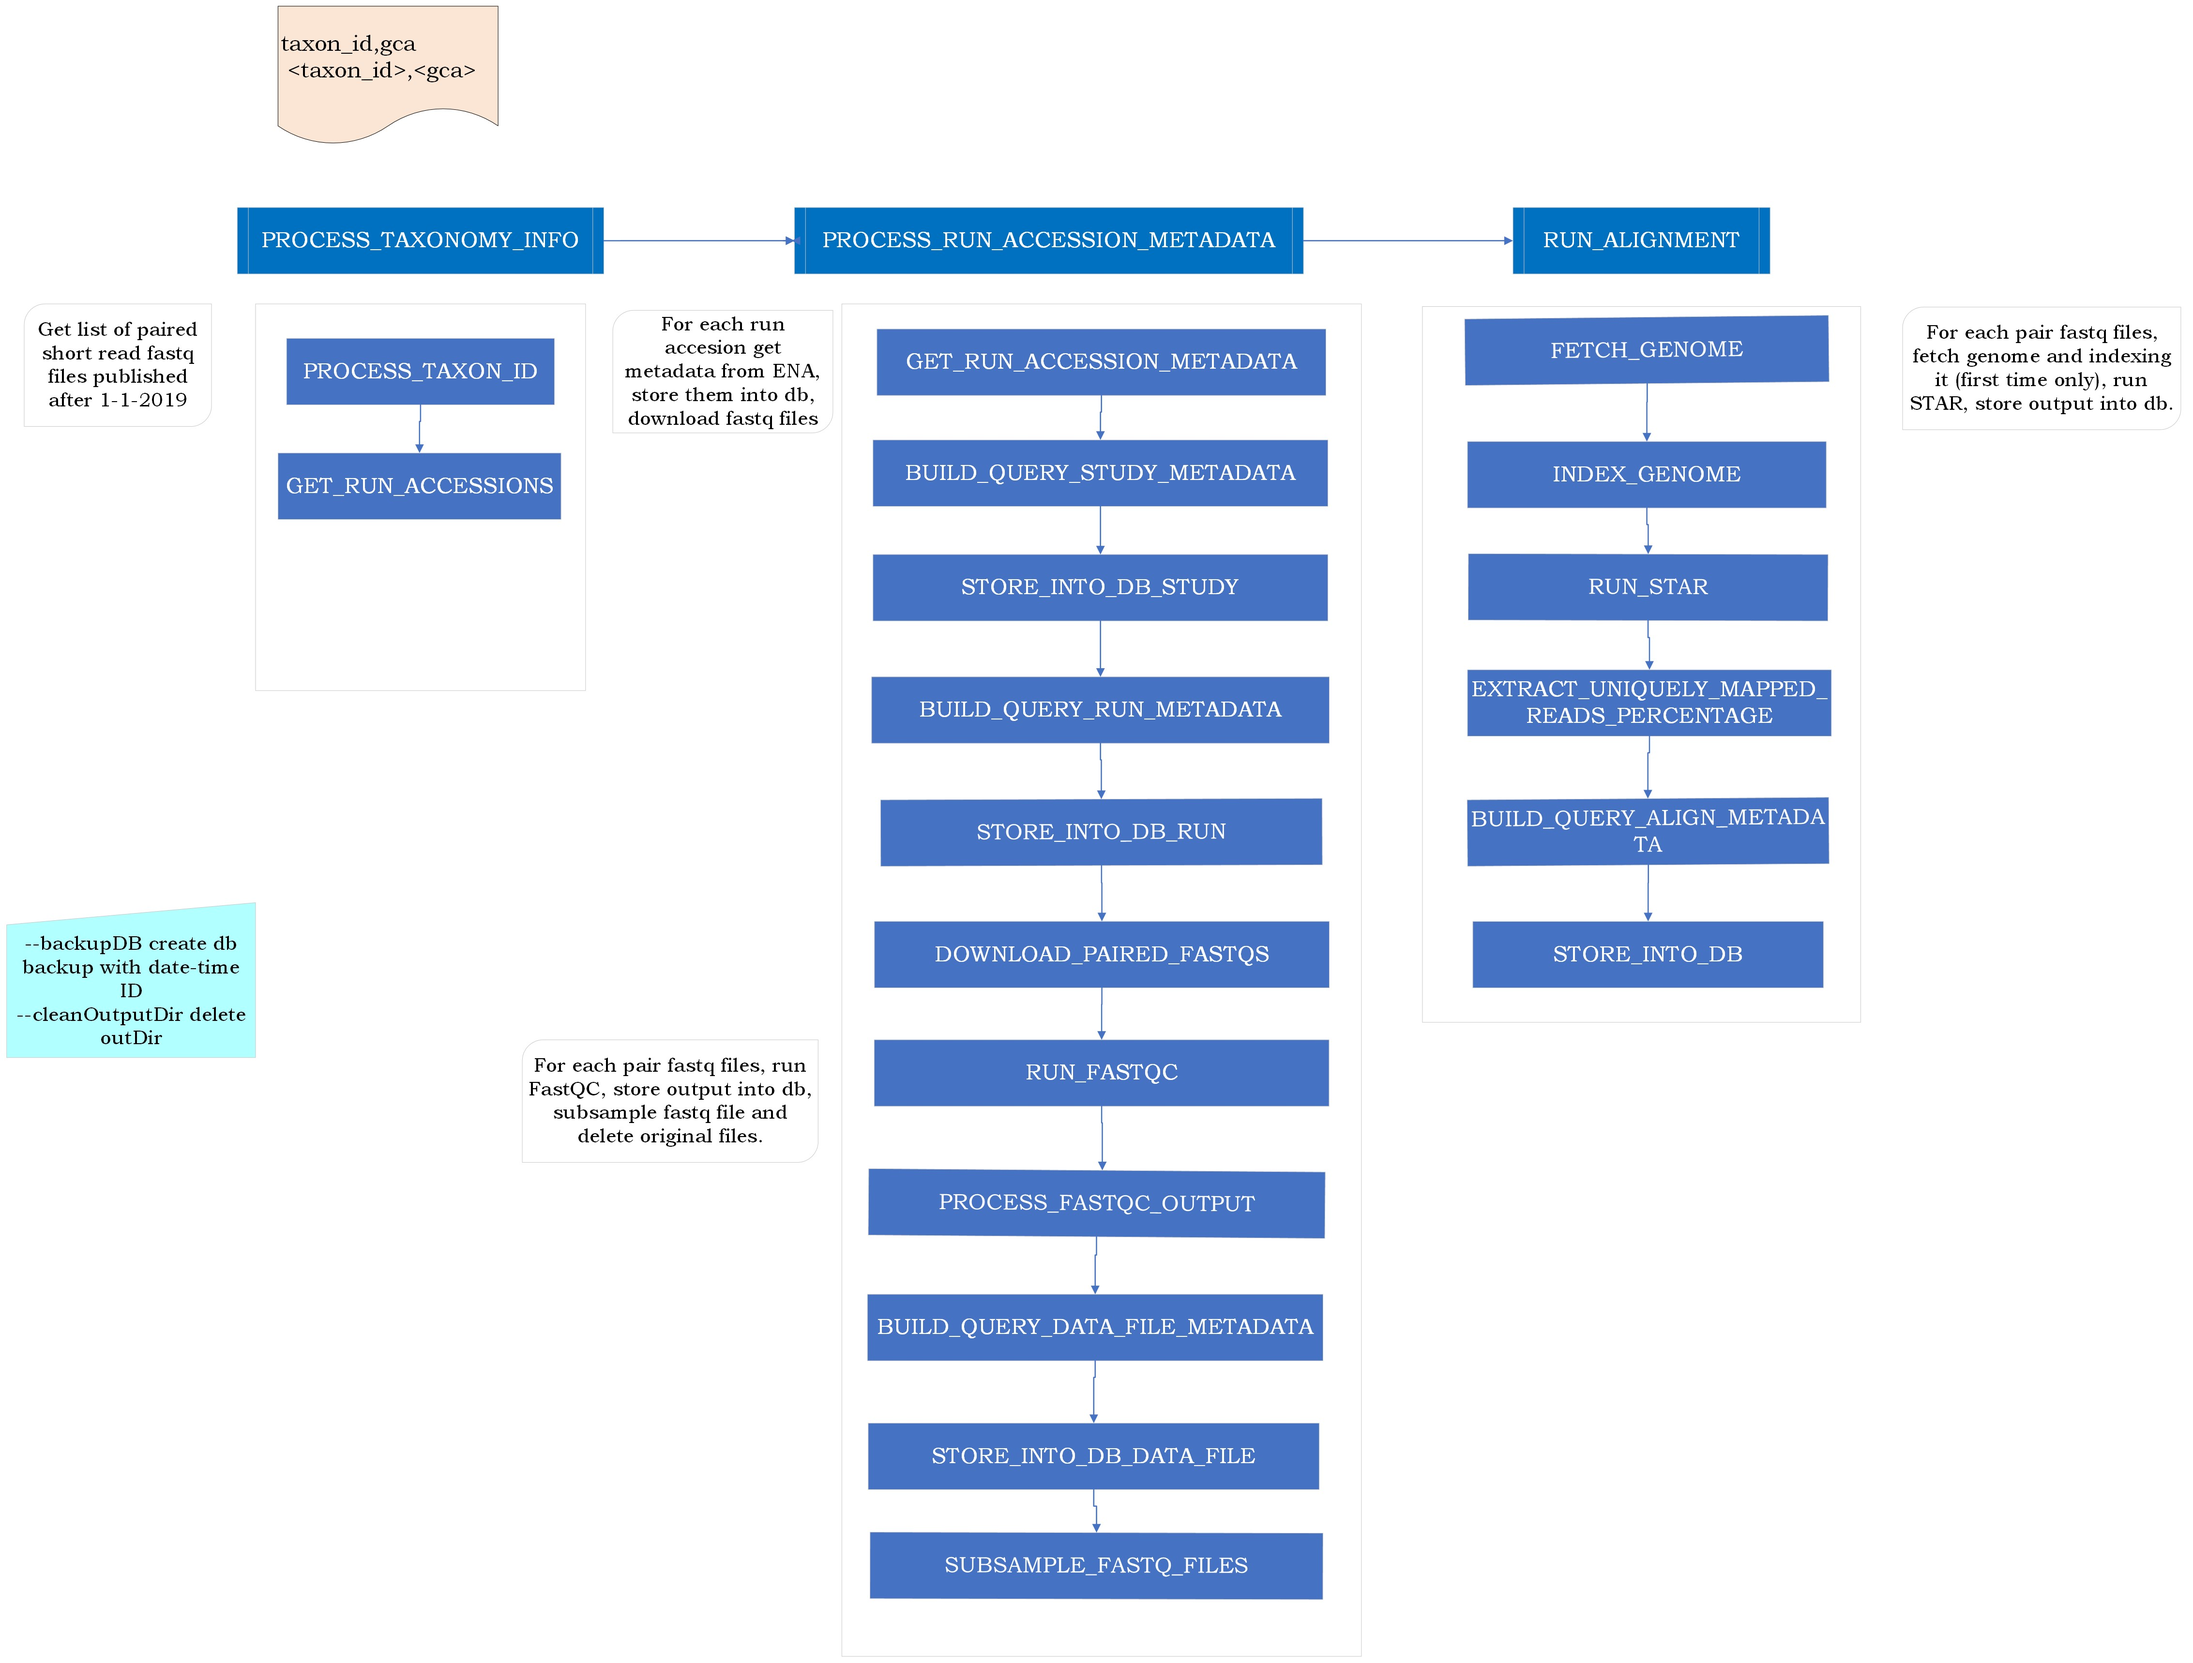
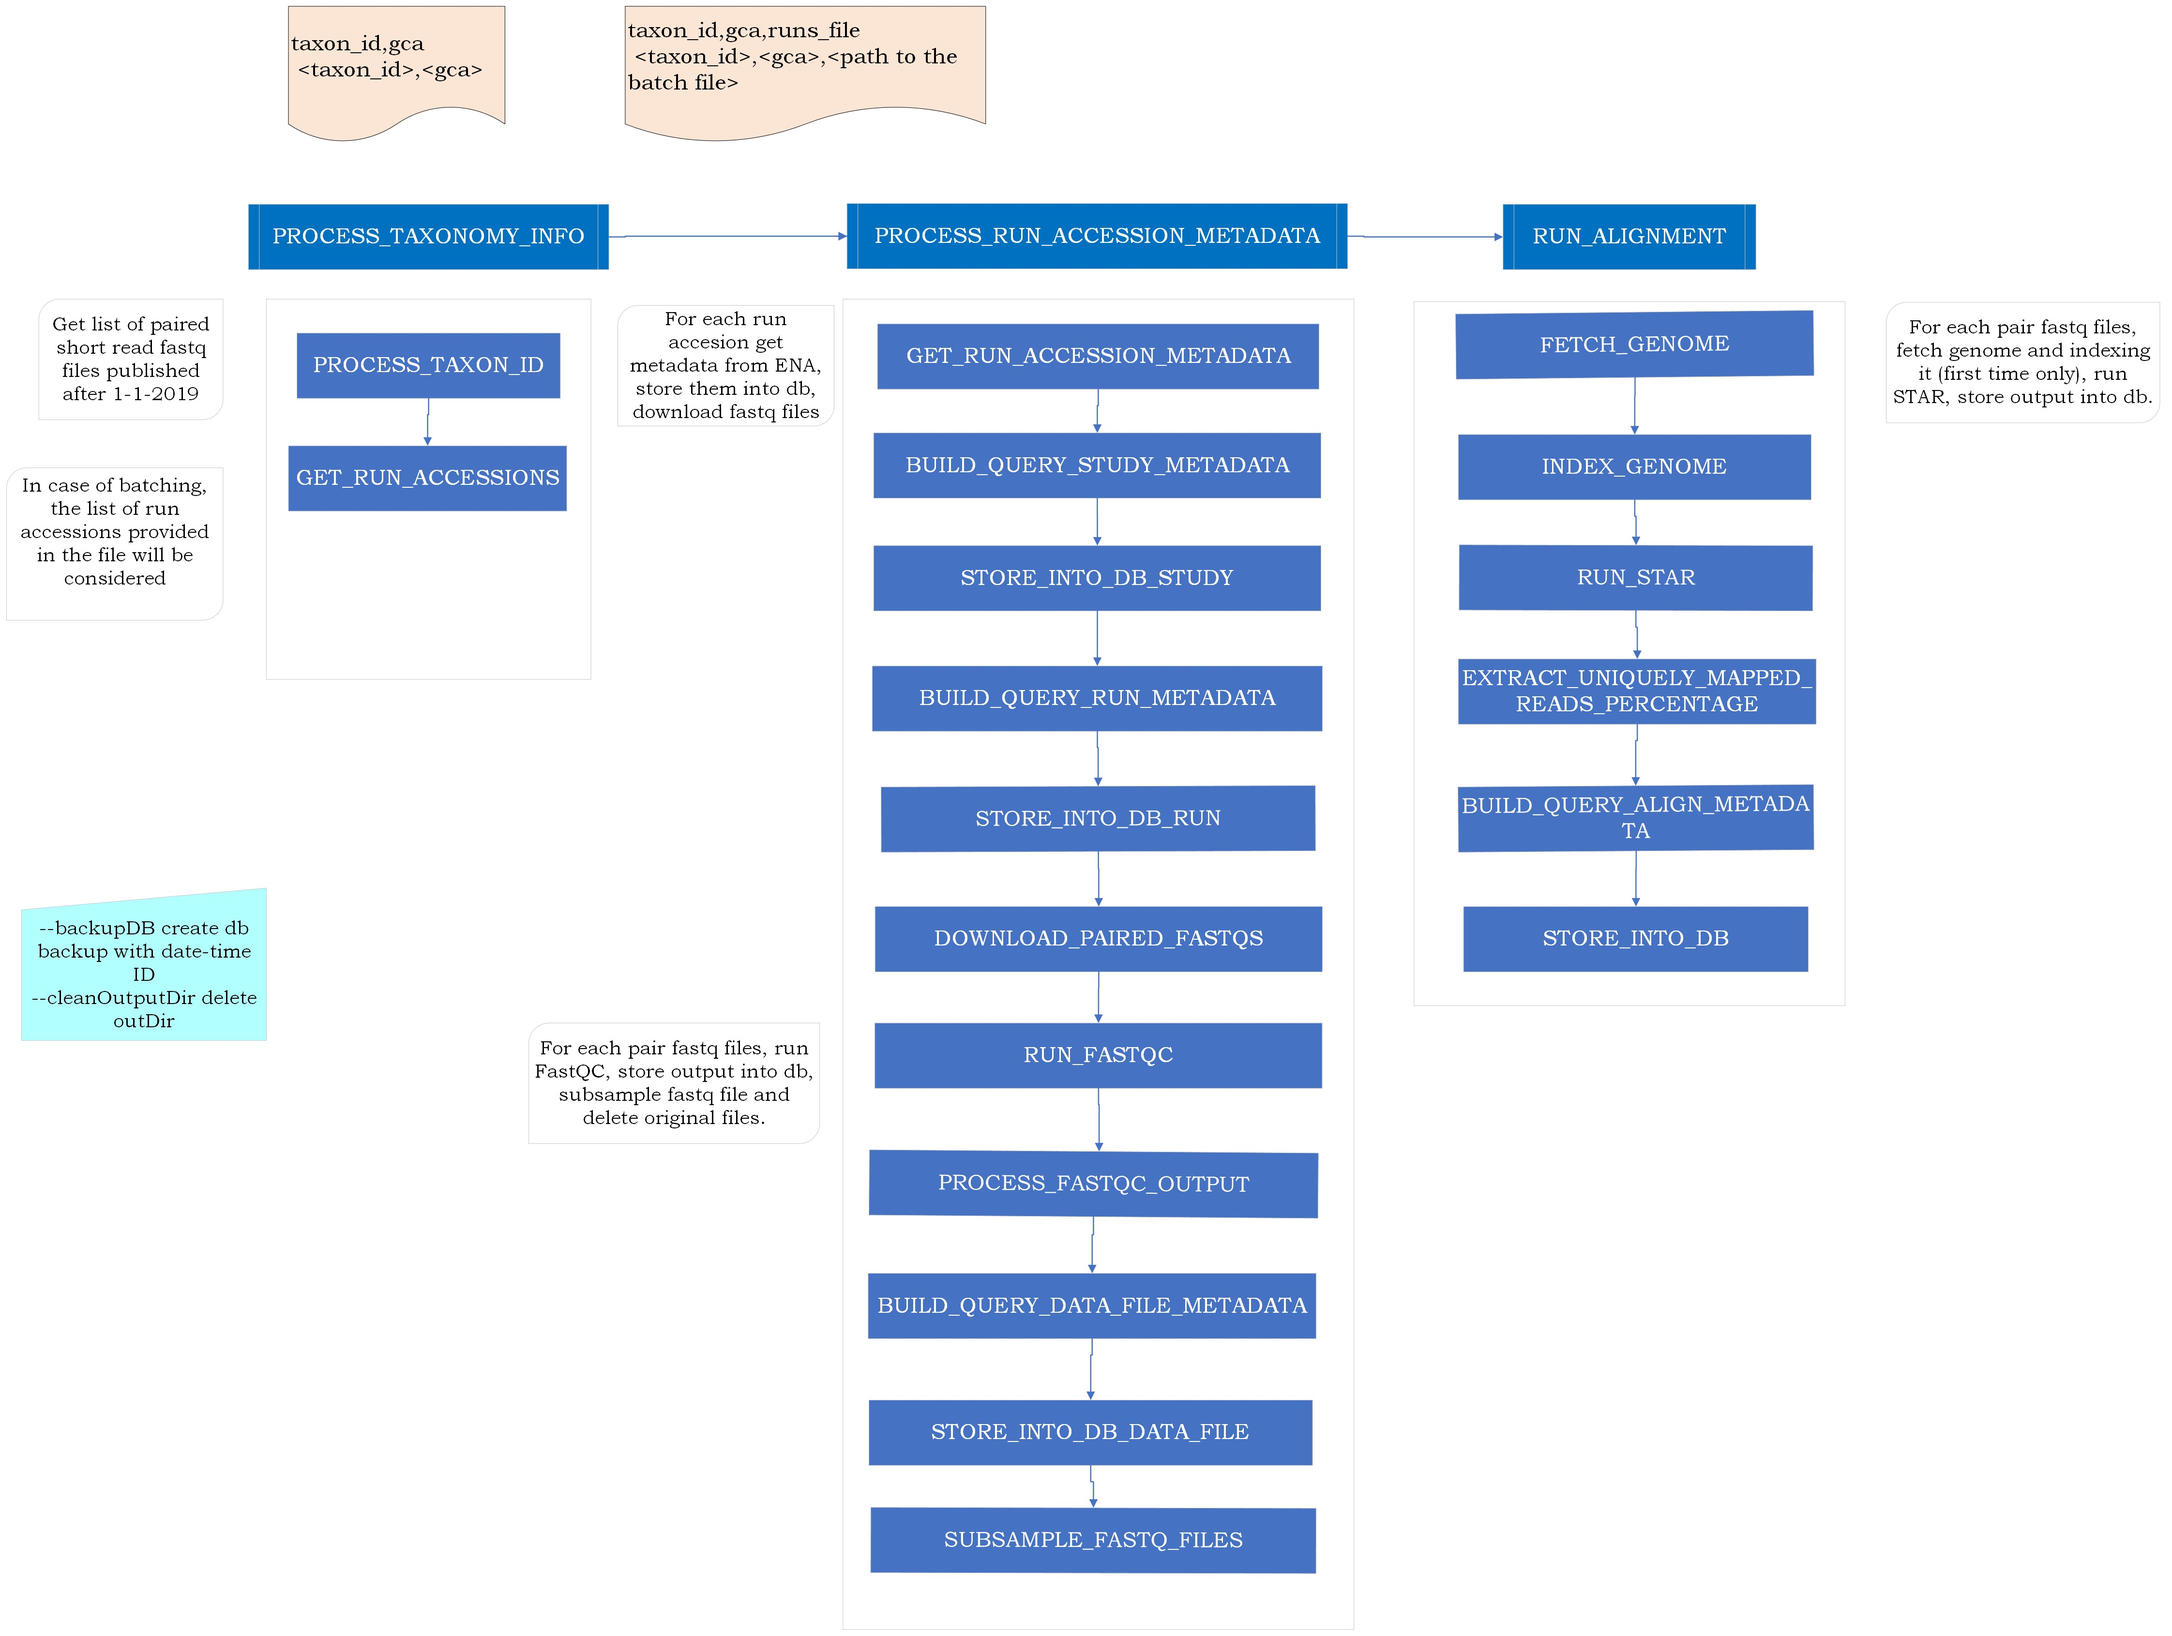
doc update

diff --git a/README.md b/README.md
@@ -14,7 +14,10 @@ This pipeline processes transcriptomic data for various taxon IDs, performing a 
 
 4. **Run STAR Alignment**: Align the subsampled FASTQ files to the provided genome assembly using the STAR aligner, then store the results into the database.
 
+## Batching
 
+The batching option is available to process species with a huge amount of rnaseq data. The batches can be created via src/python/ensembl/genes/metadata/transcriptomic/check_for_transcriptomic_batch.py : give a taxon id and the batch size the script retrieves the list of run accession and split them in multiple txt files according to the batch size. 
+The pipeline considers the date of the last processed date as last cheked date for future updates.
 
 ### Mandatory arguments
 
@@ -24,6 +27,12 @@ The structure of the file can cahnge according to the running options
 |-----------------|
 | taxon_id,gca (header)   | 
 | <taxon_id>,<gca>        |
+
+In case of batching
+| csv file format |
+|-----------------|
+| taxon_id,gca,runs_file (header)           | 
+| <taxon_id>,<gca>,<path to the batch file> |
 
 
 #### `--outDir`
